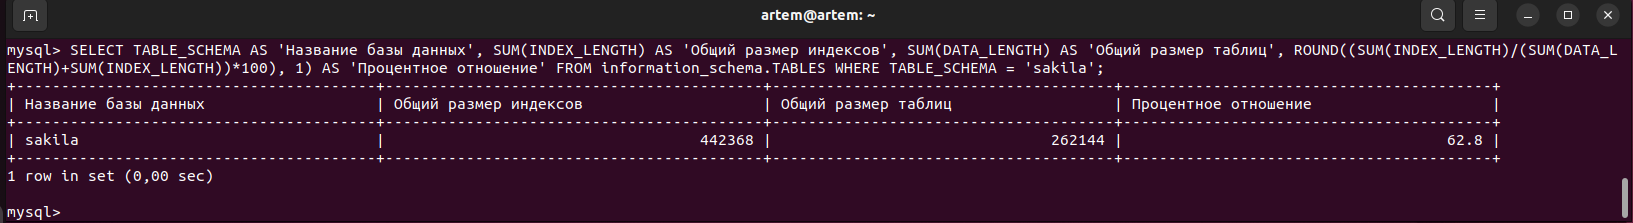
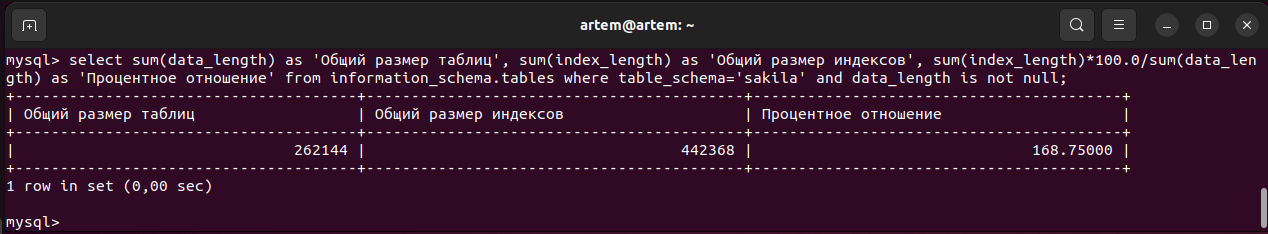
initial_commit_3

diff --git a/README.md b/README.md
@@ -10,13 +10,9 @@
 
 ``` 
 
-SELECT 
-	TABLE_SCHEMA AS 'Название базы данных', 
-	SUM(INDEX_LENGTH) AS 'Общий размер индексов', 
-	SUM(DATA_LENGTH) AS 'Общий размер таблиц', 
-	ROUND((SUM(INDEX_LENGTH)/(SUM(DATA_LENGTH)+SUM(INDEX_LENGTH))*100), 1) AS 'Процентное отношение'
-FROM information_schema.TABLES
-WHERE TABLE_SCHEMA = 'sakila';
+select sum(data_length) as 'Общий размер таблиц', sum(index_length) as 'Общий размер индексов', sum(index_length)*100.0/sum(data_length) as 'Процентное отношение'
+from information_schema.tables
+where table_schema='sakila' and data_length is not null;
 
  ```
 
